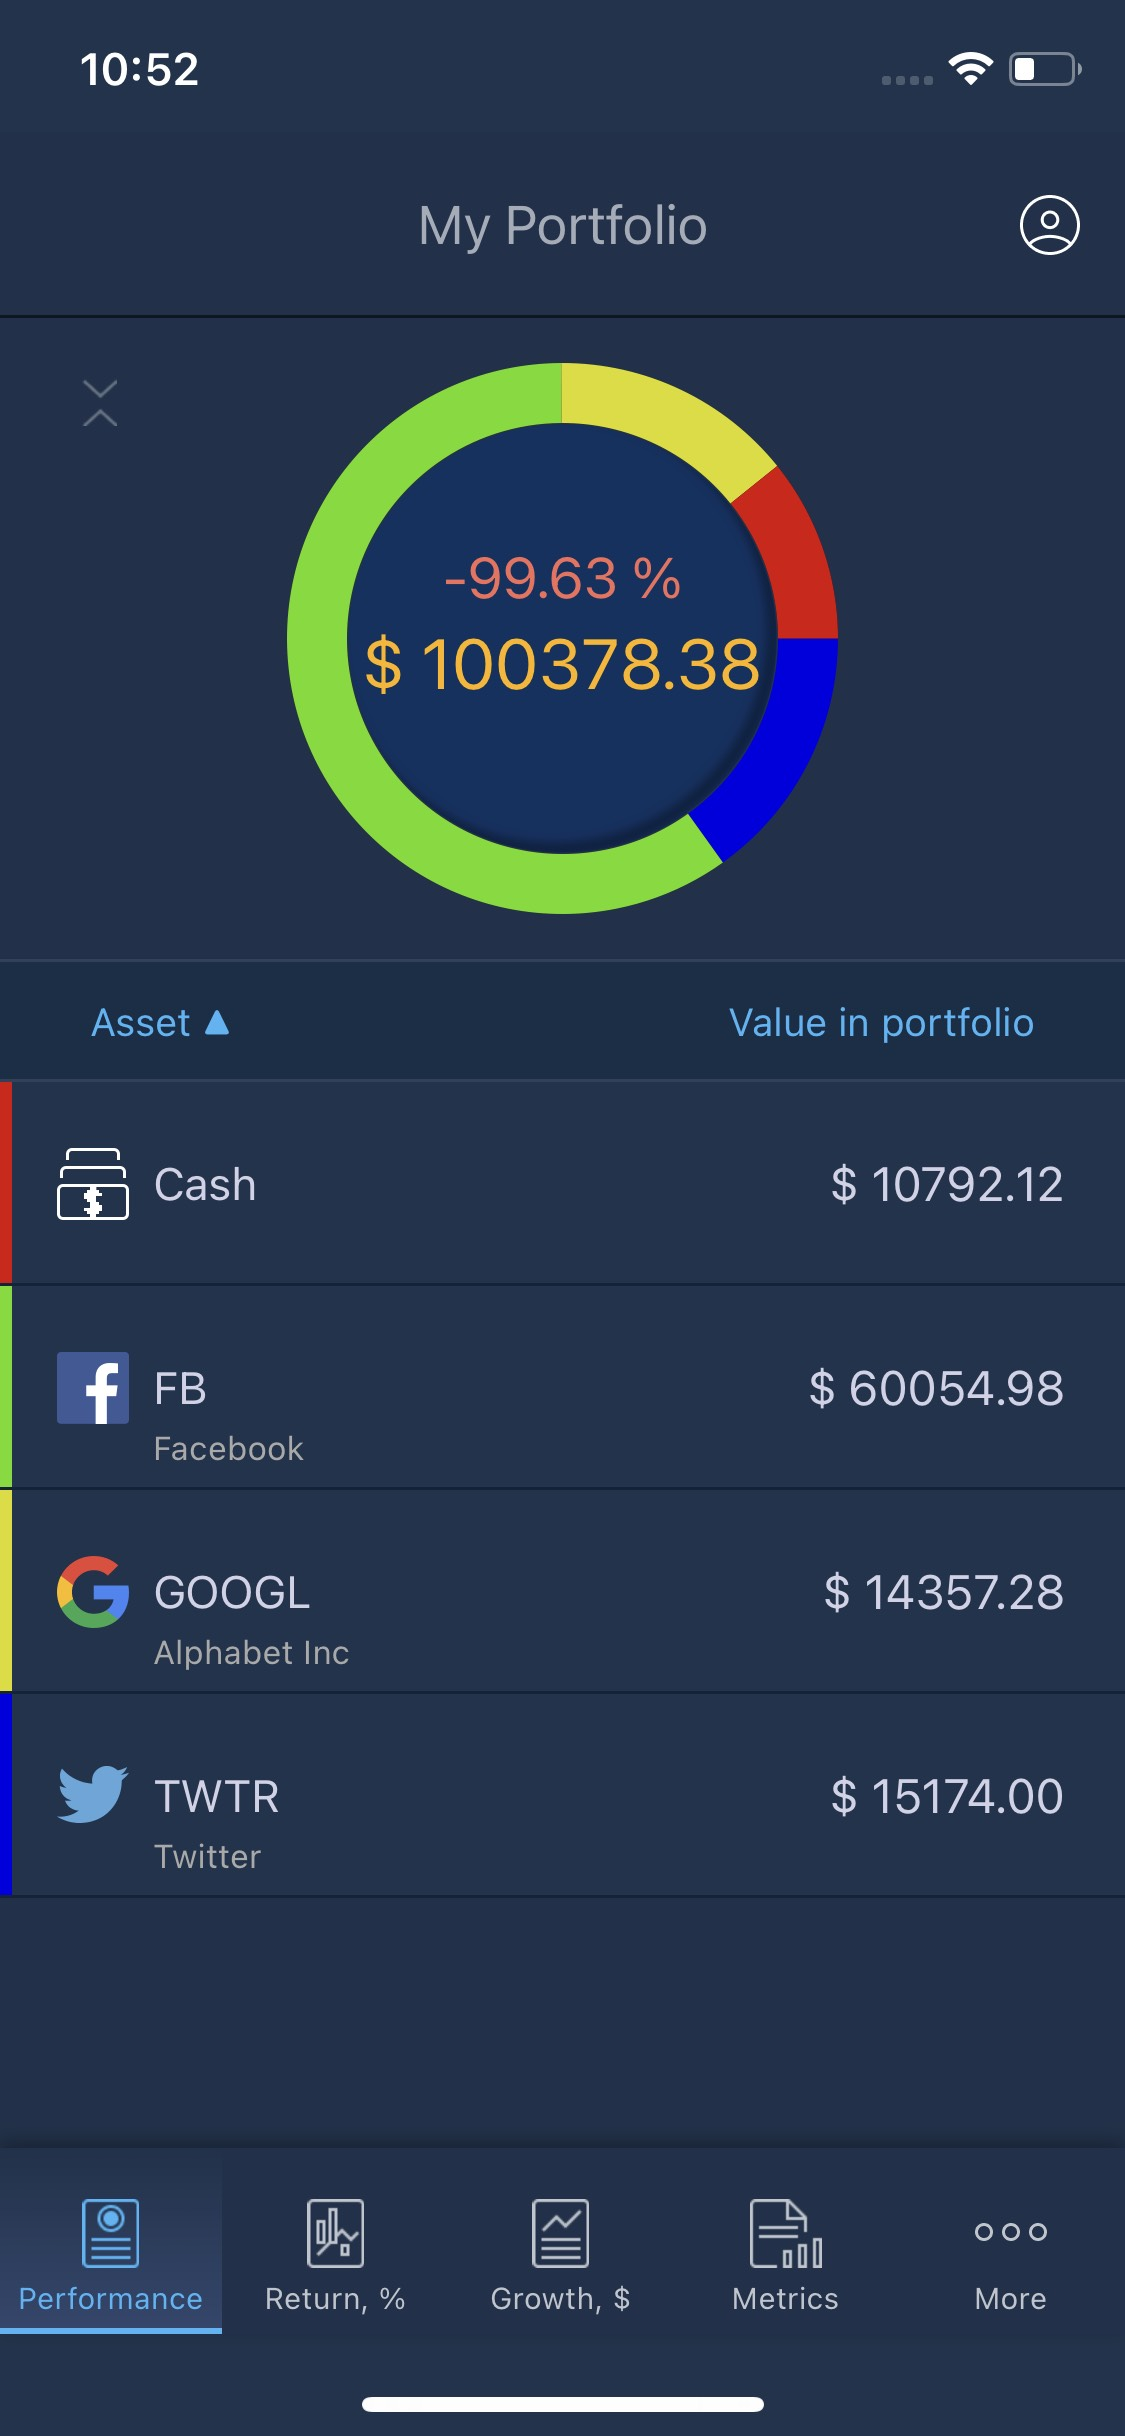
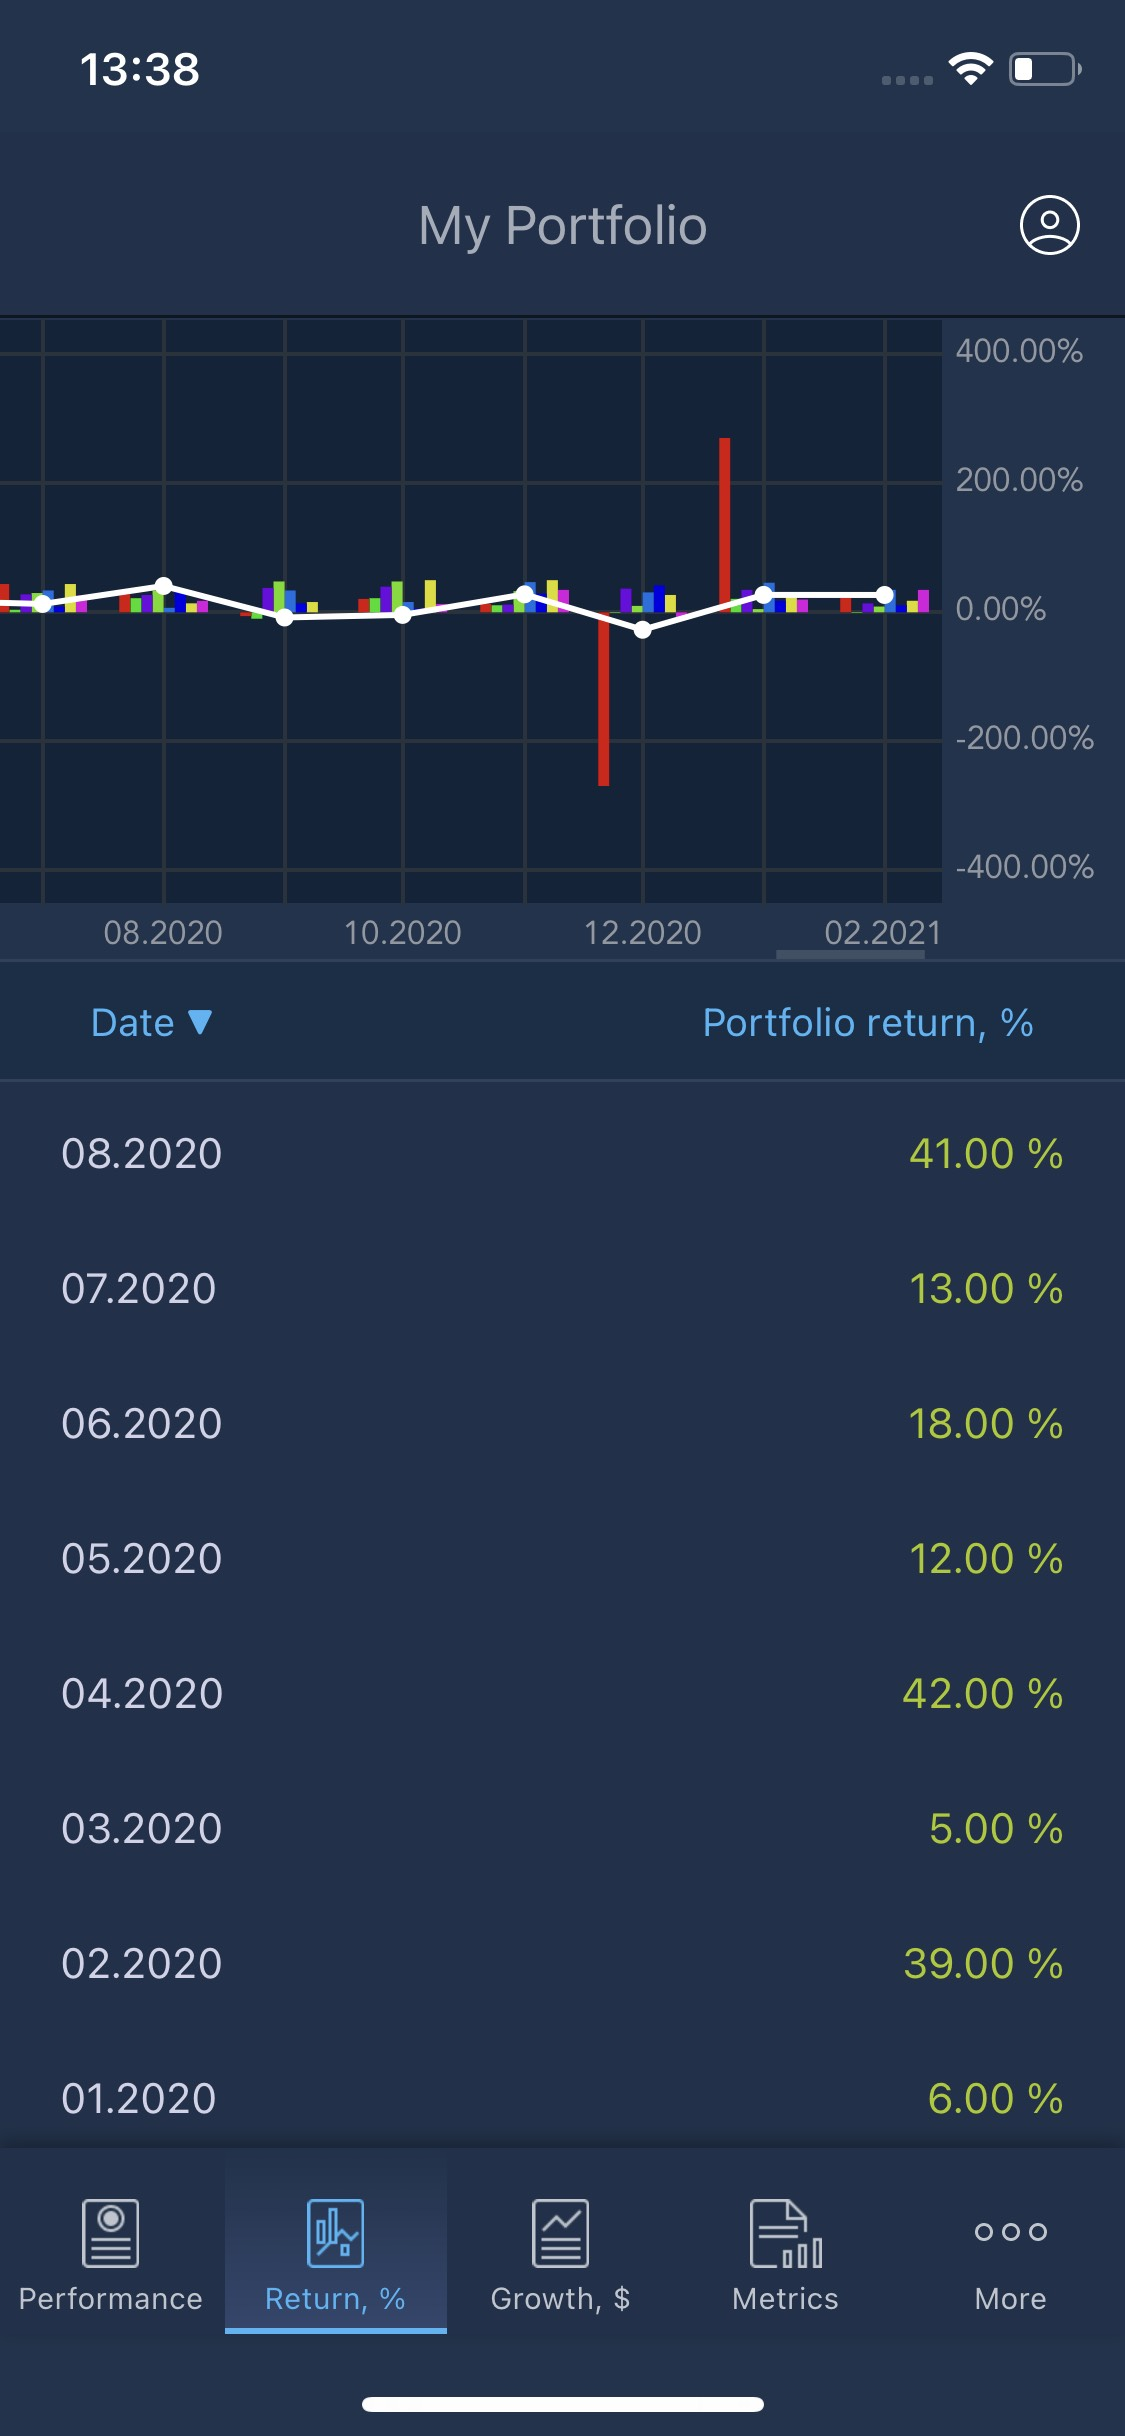
GitBook: [master] 3 pages and 4 assets modified

diff --git a/mobile-applications/ios/phone/my-portfolio/return.md b/mobile-applications/ios/phone/my-portfolio/return.md
@@ -1,0 +1,71 @@
+# Return
+
+The “Return, %” tab shows statistics by the portfolio as well as by a single asset/Cash.
+
+![](../../../../.gitbook/assets/11.jpeg)
+
+A user can see two charts which are displayed in one coordinate system:
+
+* chart with markers - shows the “Portfolio monthly return” value since the moment of investment. 
+* histogram \(bar chart\) - shows Monthly instrument return and Monthly Cash return since the moment of investment. 
+
+A table with the monthly returns is also available on the Return screen. The following data is displayed in the table:  
+
+
+* Date - the values are displayed for the specified month.
+* Portfolio return, % - shows the total Portfolio return in the corresponding month.
+
+Tap the selected number of bars on the histogram to change the data in the table according to the selected month and detailed information about returns by each asset/Cash will be displayed. Selected bars will be highlighted on the histogram.
+
+Above the table a user can see the chosen month and the total Portfolio return. The color scheme of instruments in the table corresponds with the colors of bars on the histogram. The Month return of each instrument is shown next to the instrument name.
+
+In order to go back to the previous model of data display, tap the empty space on the diagram or tap the "X" button near the Portfolio return at the active period.
+
+![](../../../../.gitbook/assets/2%20%286%29.jpeg)
+
+### Calculations
+
+**Portfolio monthly return:**
+
+_Monthly return\(i\),% = \(\(EOMPortfolioBalance\(i\) - Deposits\(i\) + Withdrawals\(i\) + Transfers\(i\) + TransferAndWithdrawal fees\(i\)  - EOMPortfolioBalance\(i-1\)\)/EOMPortfolioBalance\(i-1\)\)\*100%_
+
+_Monthly return\(i\),$ = EOMPortfolioBalance\(i\) - Deposits\(i\) + Withdrawals\(i\) + Transfers\(i\) + TransferAndWithdrawal fees\(i\)  - EOMPortfolioBalance\(i-1\)_
+
+where:
+
+* i - current month;
+* EOMPortfolioBalance\(i\) - the Projected balance value at the end of the current month;
+* Deposits - the sum of all Deposit transactions by the account since the beginning of the specified month;
+* Withdrawals - the sum of all Withdrawal operations by the account since the beginning of the specified month;
+* Transfers - the sum of all Transfer operations by the account since the beginning of the specified month;
+* TransferAndWithdrawal fees - the sum of all Transfer fee and Withdrawal fee operations by the account since the beginning of the specified month;
+* EOMPortfolioBalance\(i-1\) - the Projected balance value for the last date of the month that precedes the specified month.
+
+**Monthly instrument return:**
+
+_Monthly instrument return\(i\) = \(\(EOMLastPrice\(i\) - EOMLastPrice\(i-1\)\)/EOMLastPrice\(i-1\)\)\*100%_  
+
+
+where:
+
+* i - current month;
+* EOMLastPrice\(i\) - the Last price value at the end of the current month;
+* EOMLastPrice\(i-1\) - the Last price at the end of the month that precedes the specified month. If there is no such value, then during the first month the Monthly return will be calculated by the formula:
+
+_Monthly instrument return\(i\) = \(\(EOMLastPrice\(i\) - OpenPrice\(i\)\)/OpenPrice\(i\)\)\*100%_
+
+**Monthly Cash return:**
+
+_Monthly Cash return\(i\),% = \(\(EOMNetCash\(i\) - Deposits\(i\) + Withdrawals\(i\) + Transfers\(i\) + TransferAndWithdrawal fees\(i\) + StockOperation\(i\) - EOMNetCash\(i-1\)\)/EOMNetCash\(i-1\)\)\*100%_
+
+where:
+
+* i - current month;
+* EOMNetCash\(i\) - the net Cash value at the end of the current month;
+* Deposits - the sum of all Deposit transactions by the account since the beginning of the specified month;
+* Withdrawals - the sum of all Withdrawal operations by the account since the beginning of the specified month;
+* Transfers - the sum of all Transfer operations by the account since the beginning of the specified month;
+* TransferAndWithdrawal fees - the sum of all Transfer fee and Withdrawal fee operations by the account since the beginning of the specified month;  
+* StockOperation\(i\) - the sum of all Stock operations by the account since the beginning of the specified month;
+* EOMNetCash\(i-1\) - the net Cash value at the end of the month that precedes the specified month.
+

diff --git a/SUMMARY.md b/SUMMARY.md
@@ -375,6 +375,7 @@
       * [My Portfolio](mobile-applications/ios/phone/my-portfolio/README.md)
         * [Getting started](mobile-applications/ios/phone/my-portfolio/getting-started-1.md)
         * [Performance](mobile-applications/ios/phone/my-portfolio/performance.md)
+        * [Return](mobile-applications/ios/phone/my-portfolio/return.md)
       * [More](mobile-applications/ios/phone/more.md)
     * [Tablets](mobile-applications/ios/tablets/README.md)
       * [Getting started](mobile-applications/ios/tablets/getting-started.md)

diff --git a/mobile-applications/ios/phone/my-portfolio/performance.md b/mobile-applications/ios/phone/my-portfolio/performance.md
@@ -2,7 +2,7 @@
 
 The Performance screen is accessible by default after opening the “My Portfolio” functionality.
 
-![](../../../../.gitbook/assets/1%20%287%29.jpeg)
+![](../../../../.gitbook/assets/1%20%288%29.jpeg)
 
 ### Account lookup
 
